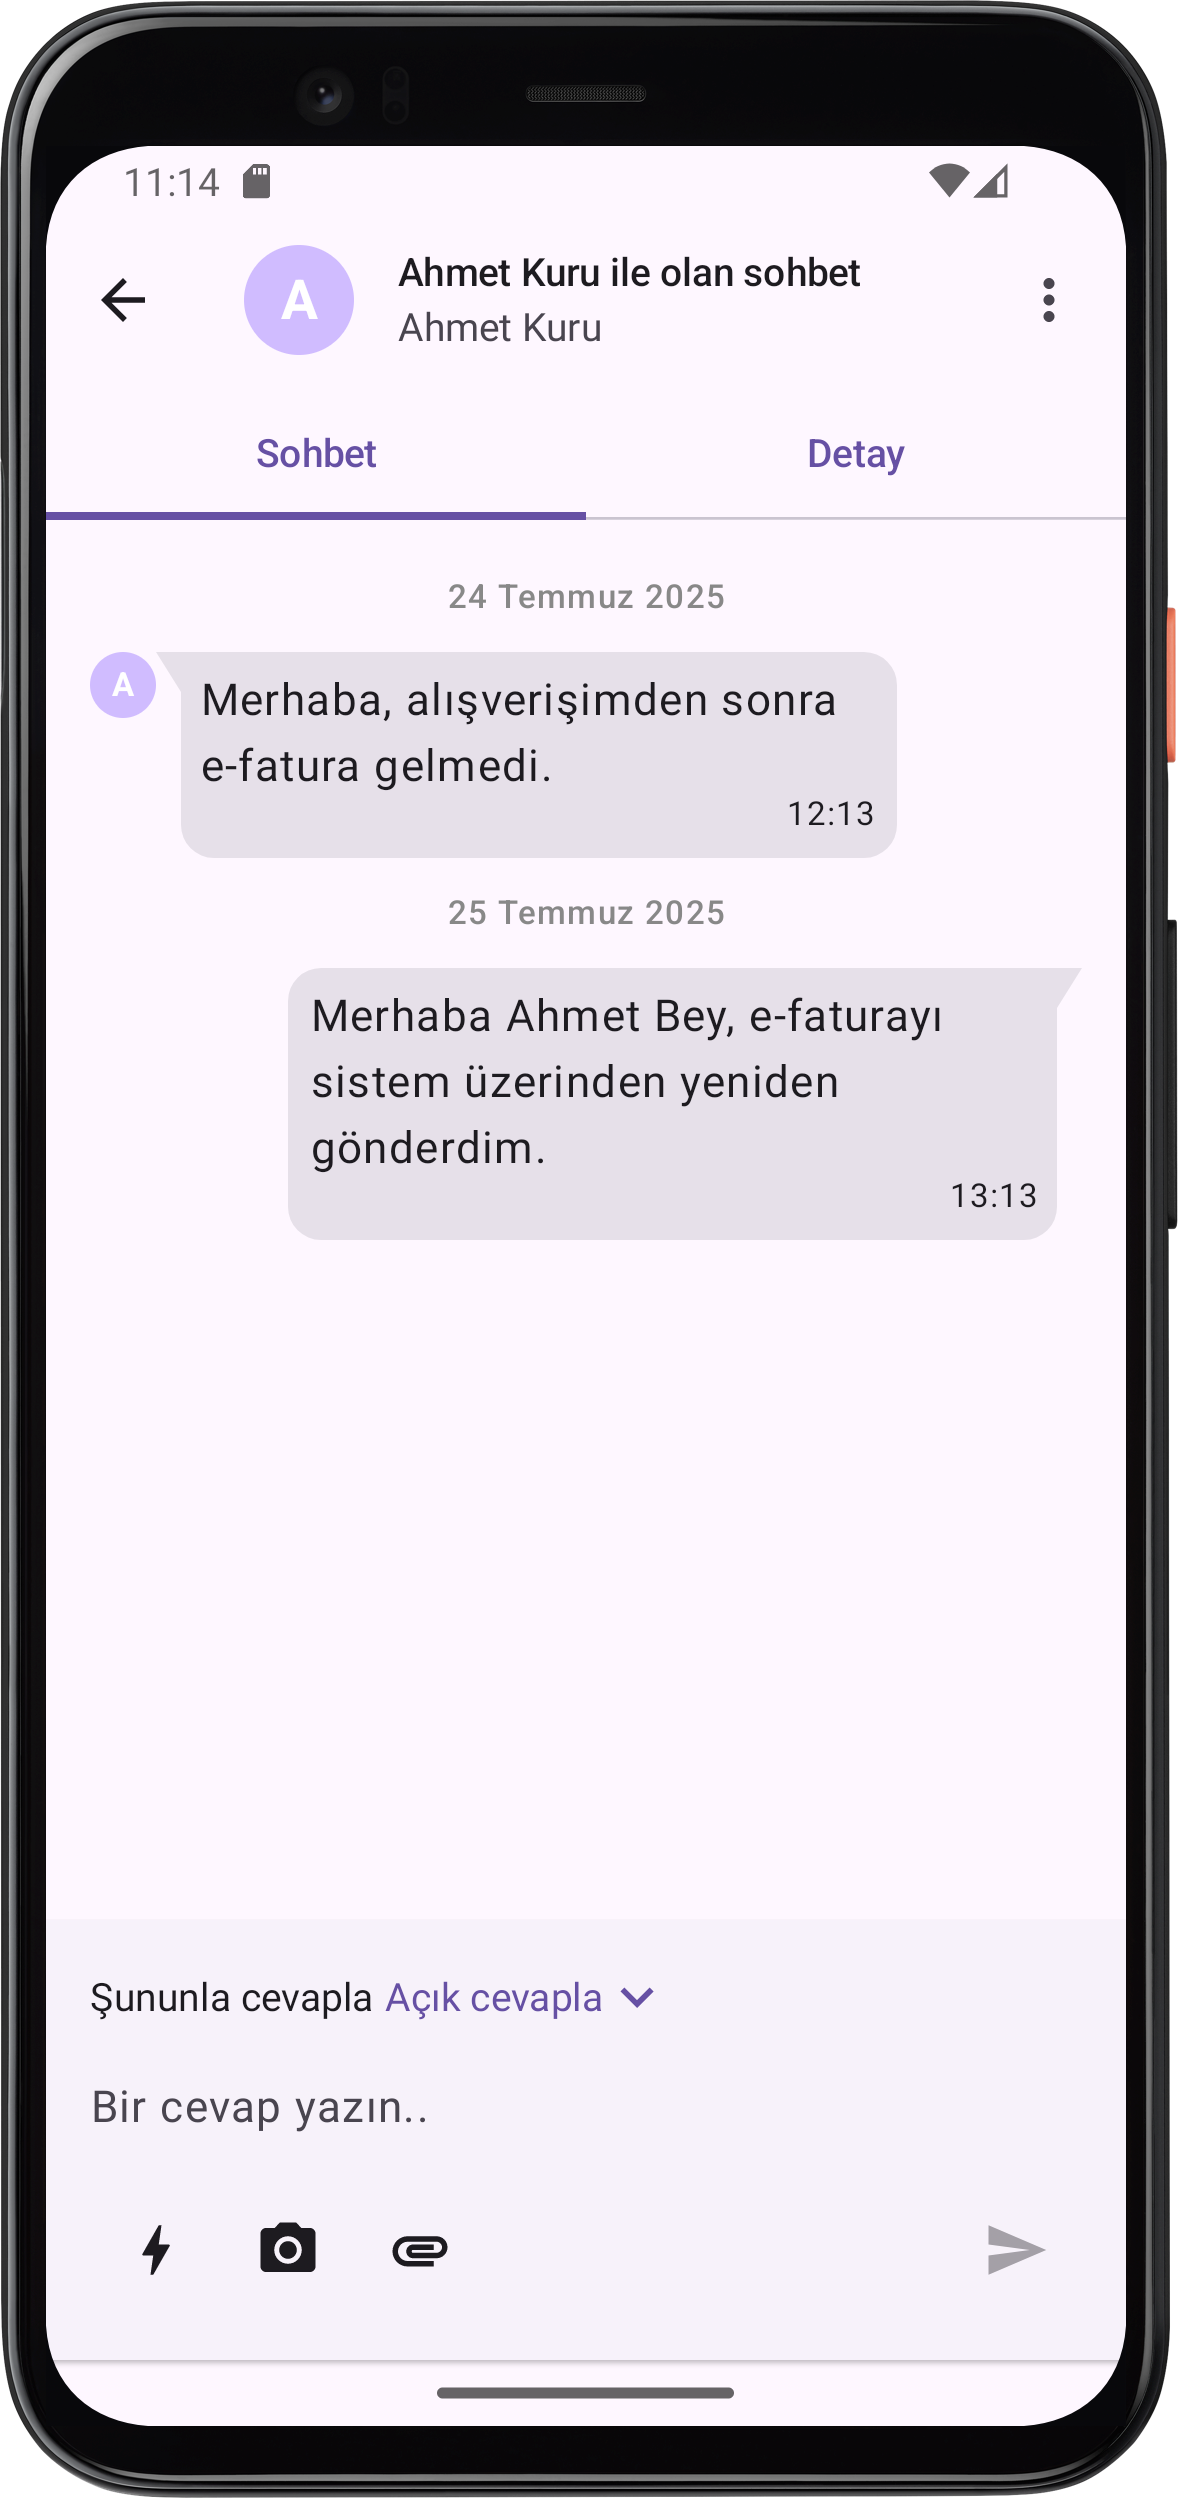
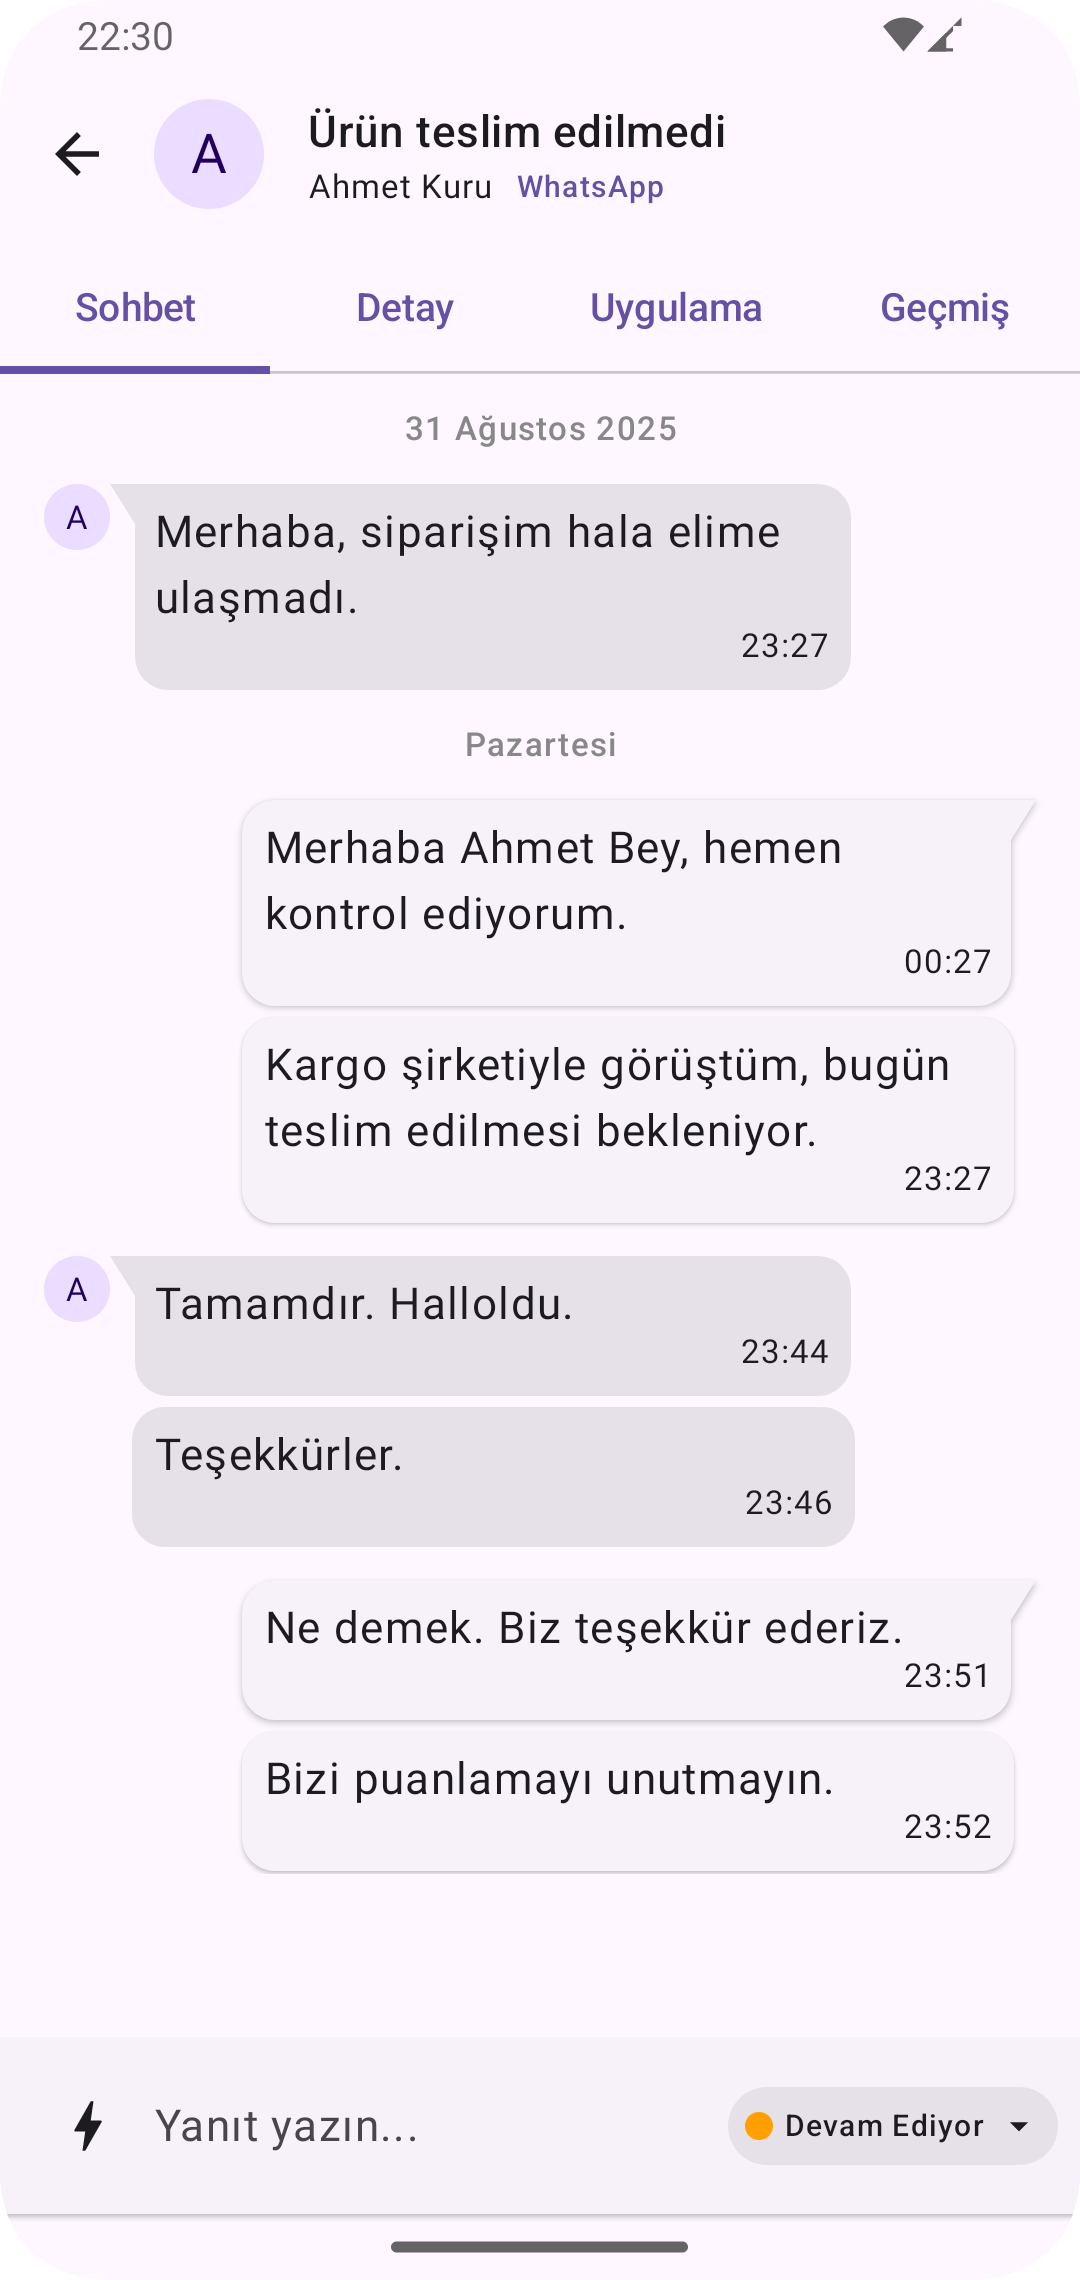
fix: update README for clarity and add new screenshots; minor layout adjustment in ConversationSection

diff --git a/app/src/main/java/com/novacodestudios/grispisupport/presentation/detail/component/ConversationSection.kt b/app/src/main/java/com/novacodestudios/grispisupport/presentation/detail/component/ConversationSection.kt
@@ -108,6 +108,8 @@ fun ConversationSection(
                     }
                 }
             }
+
+            item { Spacer(modifier = Modifier.padding(top = 1.dp)) }
         }
     }
 }

diff --git a/README.md b/README.md
@@ -2,11 +2,14 @@
 
 ## 📄 Description
 
-This is a **mock mobile support interface** application inspired by the [Zendesk Support Mobile App](https://support.zendesk.com/hc/en-us/articles/4408846407066-About-the-Zendesk-Support-mobile-app).
-It has been developed natively using **Kotlin** and **Jetpack Compose**, following modern Android development principles.
+This is a **mock mobile support interface** application inspired by
+the [Zendesk Support Mobile App](https://play.google.com/store/apps/details?id=com.zendesk.android).
+It has been developed natively using **Kotlin** and **Jetpack Compose**, following modern Android
+development principles.
 
-The app provides UI screens for a typical support workflow including ticket list, details, and responses. It is designed solely for frontend demonstration purposes using mock data and is built with an emphasis on clean architecture and modularity.
-
+The app provides UI screens for a typical support workflow. It is designed solely for frontend 
+demonstration purposes using mock data, and has been developed with an attempt to follow MVI 
+architectural principles.
 ---
 
 ## ⚙ Tech Stack
@@ -24,18 +27,17 @@ The app provides UI screens for a typical support workflow including ticket list
 ## 📁 Package Structure
 
 ```text
-├── di               # Dependency Injection (Hilt)
-├── data             # Data layer
-├── domain           # Business logic (if needed for future expansion)
-└── presentation     # UI layer
-    ├── model        # UI models (ViewState, Events, etc.)
-    ├── navigation   # Navigation graph & routes
-    ├── theme        # MaterialTheme definitions
-    ├── util         # Utilities and helpers
-    ├── component    # Reusable UI components
-    ├── signin       # Sign-in screen
-    ├── list         # Ticket list screen
-    └── detail       # Ticket detail & response tabs
+├── di                  # Dependency Injection (Hilt)
+├── data                # Data layer
+├── domain              # Business logic (if needed for future expansion)
+└── presentation        # UI layer
+    ├── model           # UI models
+    ├── navigation      # Components related to navigation
+    ├── theme           # MaterialTheme definitions
+    ├── util            # Utilities and helpers
+    ├── component       # Reusable UI components
+    └── screen          # Viewmodel, State, Event and Screen Composable related to the relevant screen
+        └── component   # Screen-specific components
 ```
 
 ---
@@ -44,15 +46,38 @@ The app provides UI screens for a typical support workflow including ticket list
 
 * **SignIn** – Basic login screen
 * **List** – Shows support ticket list with basic metadata
-* **Detail (Detail Tab)** – Displays selected ticket information
-* **Detail (Response Tab)** – Shows and allows entering a response
+* **Conversation Tab** – Displays selected ticket information
+* **Detail Tab** – Shows and allows entering a response
+* **Application Tab** – Displays application details
+* **History Tab** – Shows ticket history
+* **Profile** – User profile screen
+* **Settings** – App settings screen
+* **Notification** – Notification center screen
 
-<p align="center">
-  <img width="18%" height="auto" src="screenshot/signin.png" />
-  <img width="18%" height="auto" src="screenshot/list.png" />
-  <img width="18%" height="auto" src="screenshot/detail_conversation.png" />
-  <img width="18%" height="auto" src="screenshot/detail.png" />
-</p>
+
+### Sign In
+<img src="screenshot/signin_1.png" width="250"/> <img src="screenshot/signin_2.png" width="250"/>
+
+### Ticket List
+<img src="screenshot/list.png" width="250"/>
+
+### Ticket Details
+<img src="screenshot/detail_application.png" width="250"/>
+<img src="screenshot/detail_conversation.png" width="250"/>
+<img src="screenshot/detail_detail.png" width="250"/>
+
+### History
+<img src="screenshot/detail_history.png" width="250"/>
+
+### Notifications
+<img src="screenshot/notification.png" width="250"/>
+
+### Profile
+<img src="screenshot/profile.png" width="250"/>
+
+### Settings
+<img src="screenshot/settings.png" width="250"/>
+
 
 ---
 
@@ -60,7 +85,7 @@ The app provides UI screens for a typical support workflow including ticket list
 
 ### Prerequisites
 
-* AAndroid Studio Meerkat Feature Drop | 2024.3.2 or later
+* Android Studio Meerkat Feature Drop | 2024.3.2 or later
 * Kotlin 2.2.0+
 * Gradle 8.11.1+
 
